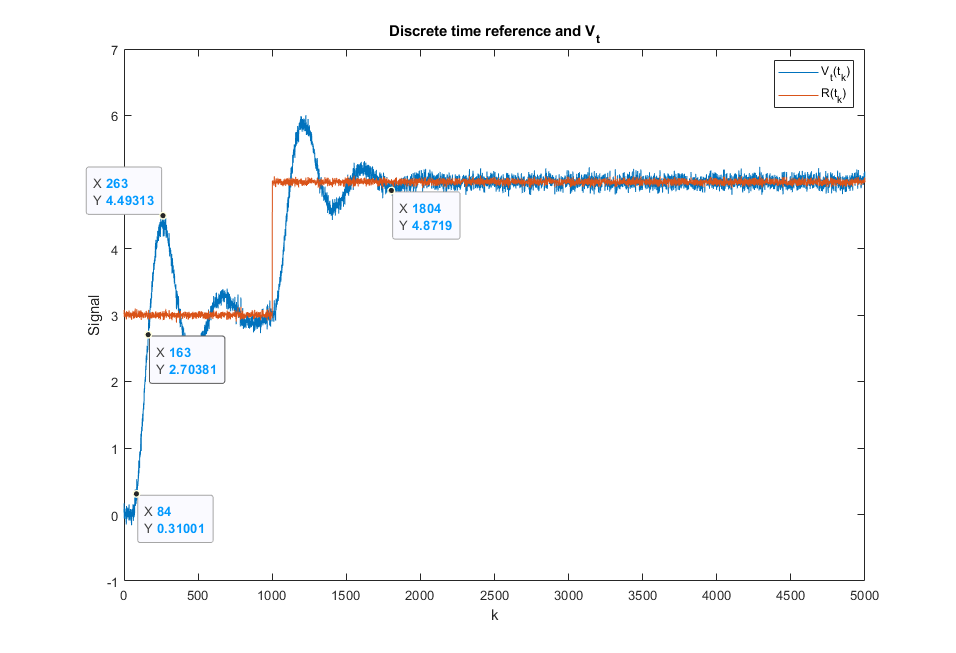
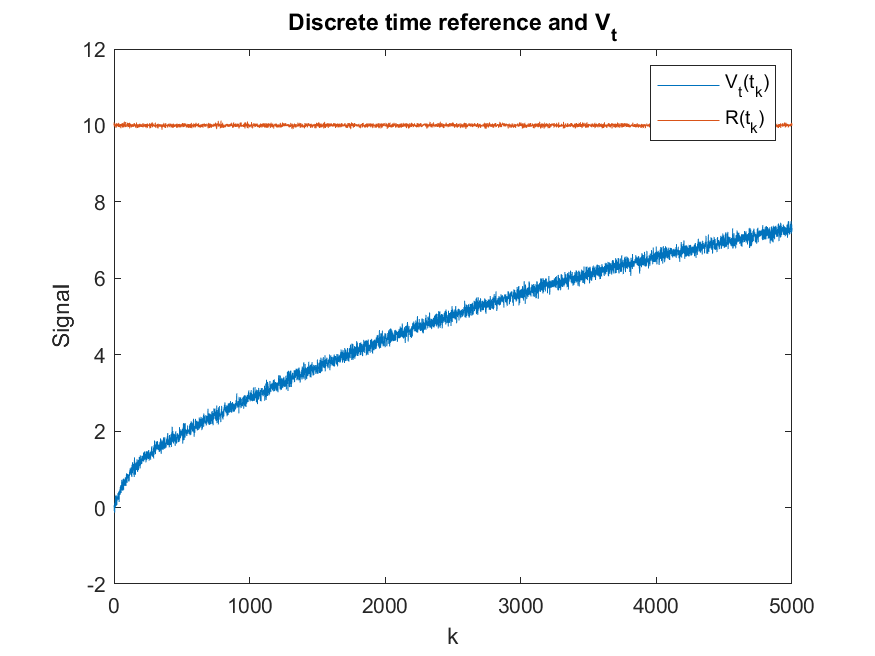
updates exp5

diff --git a/experimento-5/exp5_script.m b/experimento-5/exp5_script.m
@@ -1,4 +1,4 @@
-%Setup
+% Setup
 clear all;
 close all;
 load('motor.mat');
@@ -8,27 +8,34 @@ h_motor = h*1e-1;
 PO = 0.1;
 ts = 2;
 
-%Estimation of dynamic constants
+% Estimation of dynamic constants
 zeta = abs(log(PO))/(sqrt(pi^2+log(PO)^2));
 wn = 4/(zeta*ts);
 
-%DC motor parameters
+% DC motor parameters
 K = 1.2;
 tau = 0.1077;
 
-%PI control parameters
+% PI control parameters
 Kp = (2*zeta*wn*tau-1)/K;
 Fi = (wn^2*tau)/(Kp*K);
 Ti = 1/Fi;
 
-%Reference
-R_steptime = 1;
-R_initialvalue = 3;
-R_finalvalue = 5;
+% Reference
+R_steptime = 0;
+R_initialvalue = 5;
+R_finalvalue = 10;
 
+% Initial variables
+x0 = [0;0];
+
+% Deadzone limit
+M = 0;
+
+% Run simulation
 out = sim('exp5_diagrama.slx',tempo_total);
 
-%Plot Vt and R
+% Plot Vt and R
 figure(1)
 plot(out.Vtd.time/h,out.Vtd.signals.values)
 hold on
@@ -39,7 +46,7 @@ ylabel('Signal')
 title('Discrete time reference and V_t')
 saveas(gcf,'imgs/response_ref.png')
 
-%Plot
+% Plot
 figure(2)
 plot(out.Wt.time,out.Wt.signals.values)
 xlabel('t')
